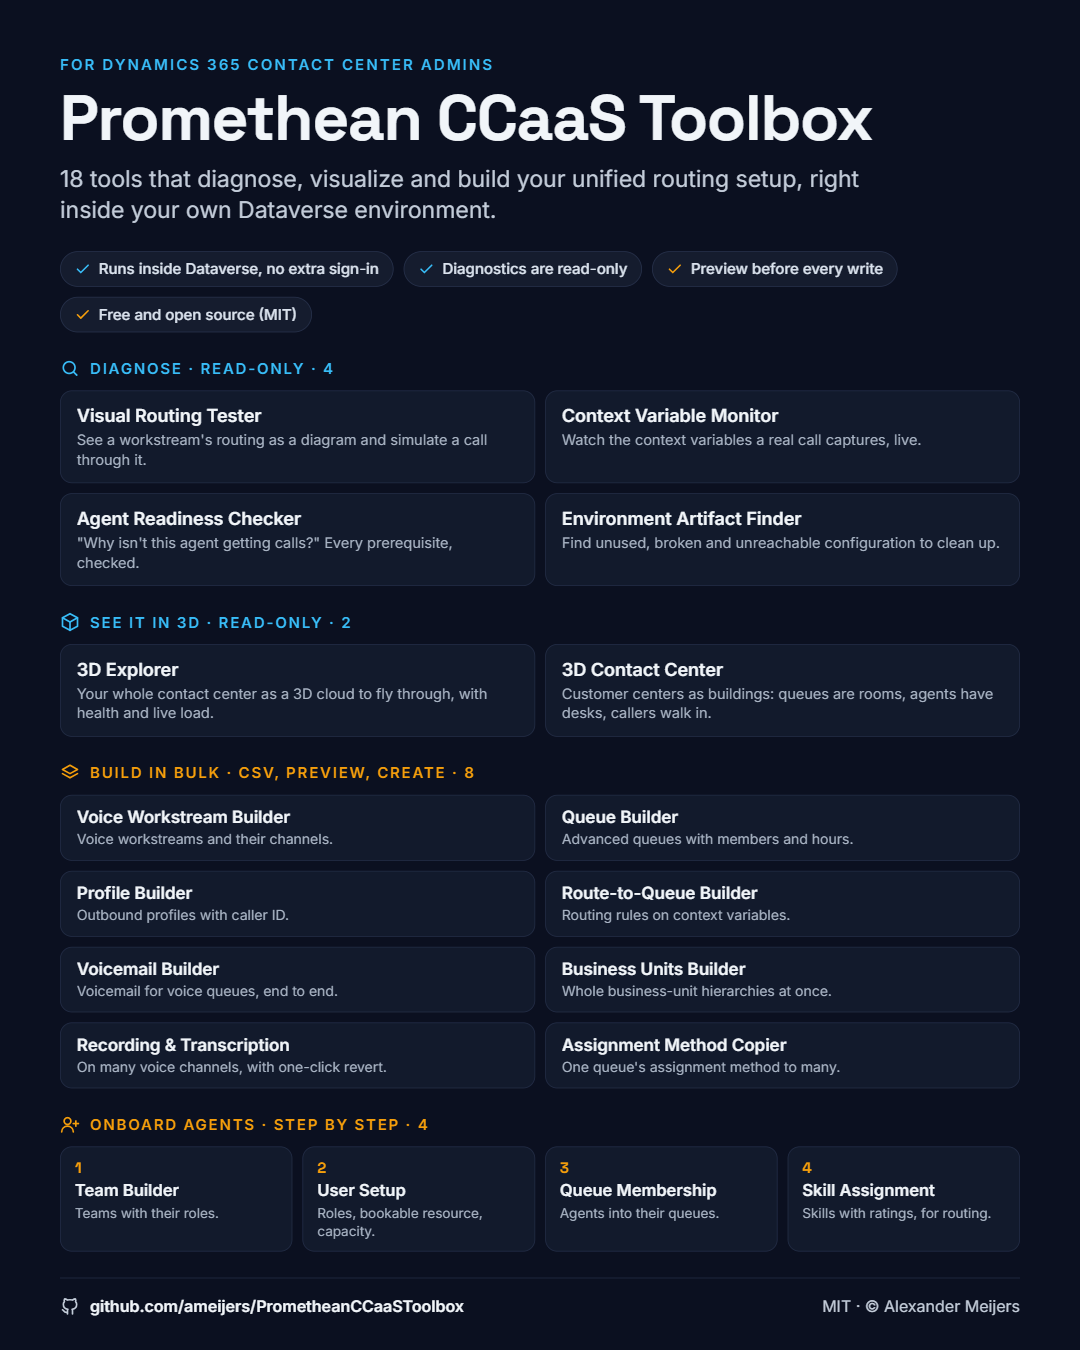
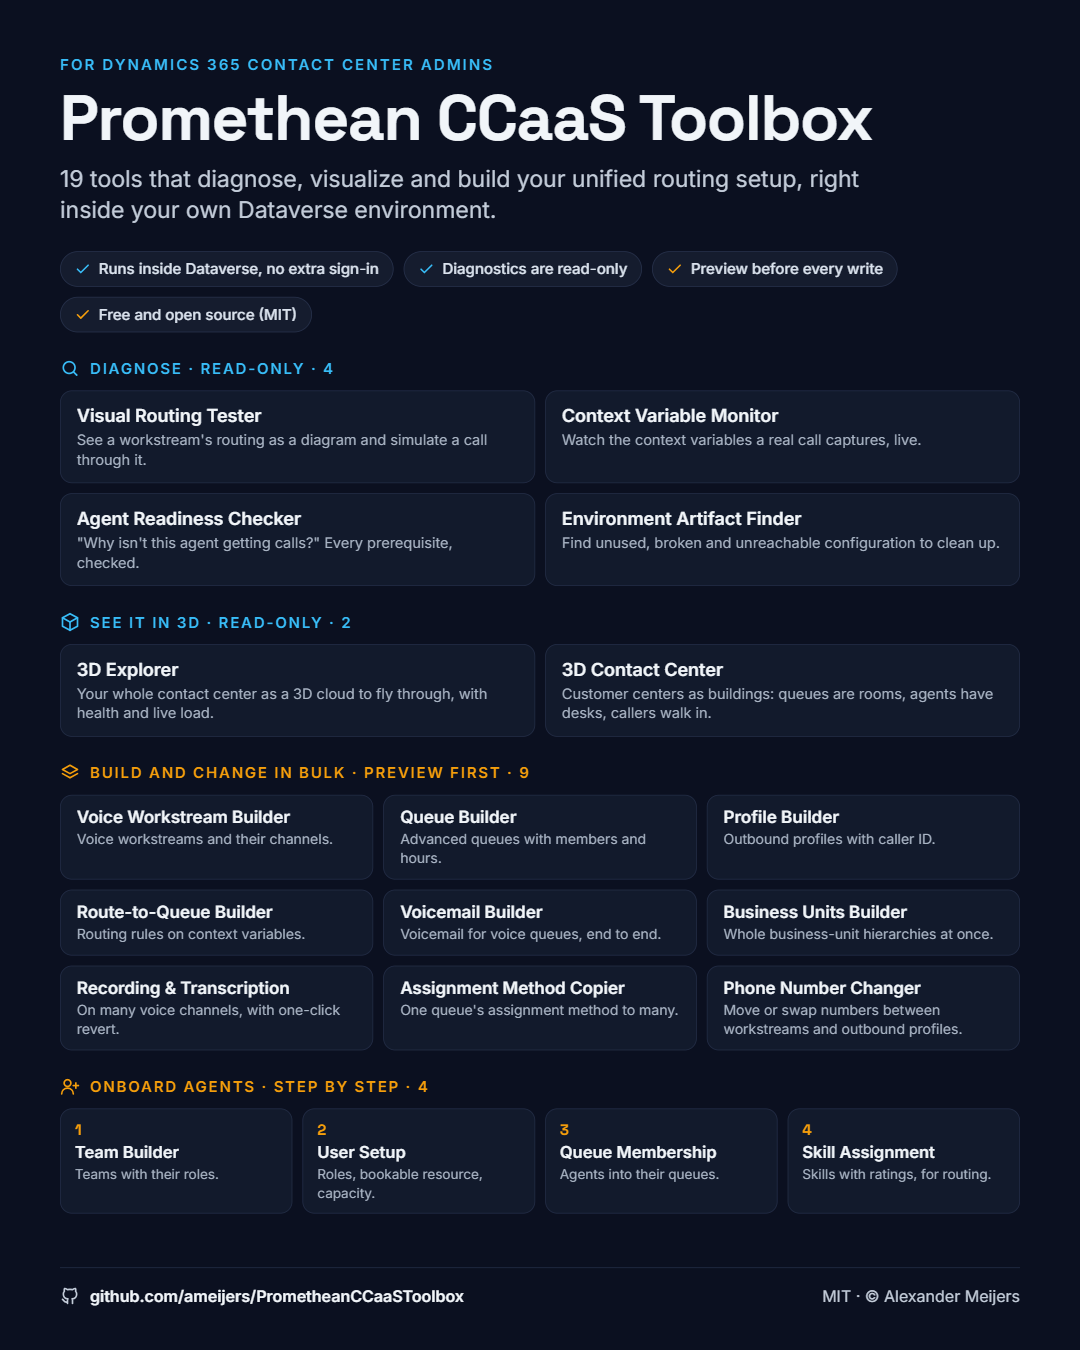
Infographic: 19 tools, with the Phone Number Changer

diff --git a/Readme.md b/Readme.md
@@ -7,7 +7,7 @@ A toolbox for administrators of **Dynamics 365 Contact Center** (unified routing
 - **Diagnostic tools** are read-only: they never write to your configuration or call data.
 - **Creation and provisioning tools** write configuration in bulk: they create new records from a CSV file, or apply one setting to many records at once. Each one writes only to a small, fixed set of tables and columns, shows a preview first, and writes nothing until you confirm.
 
-<p align="center"><img src="images/infographic.png" alt="Promethean CCaaS Toolbox infographic: 18 tools in four groups — Diagnose, See it in 3D, Build in bulk and Onboard agents" width="540"></p>
+<p align="center"><img src="images/infographic.png" alt="Promethean CCaaS Toolbox infographic: 19 tools in four groups — Diagnose, See it in 3D, Build and change in bulk, and Onboard agents" width="540"></p>
 
 ## Testing, bugs and feedback
 
